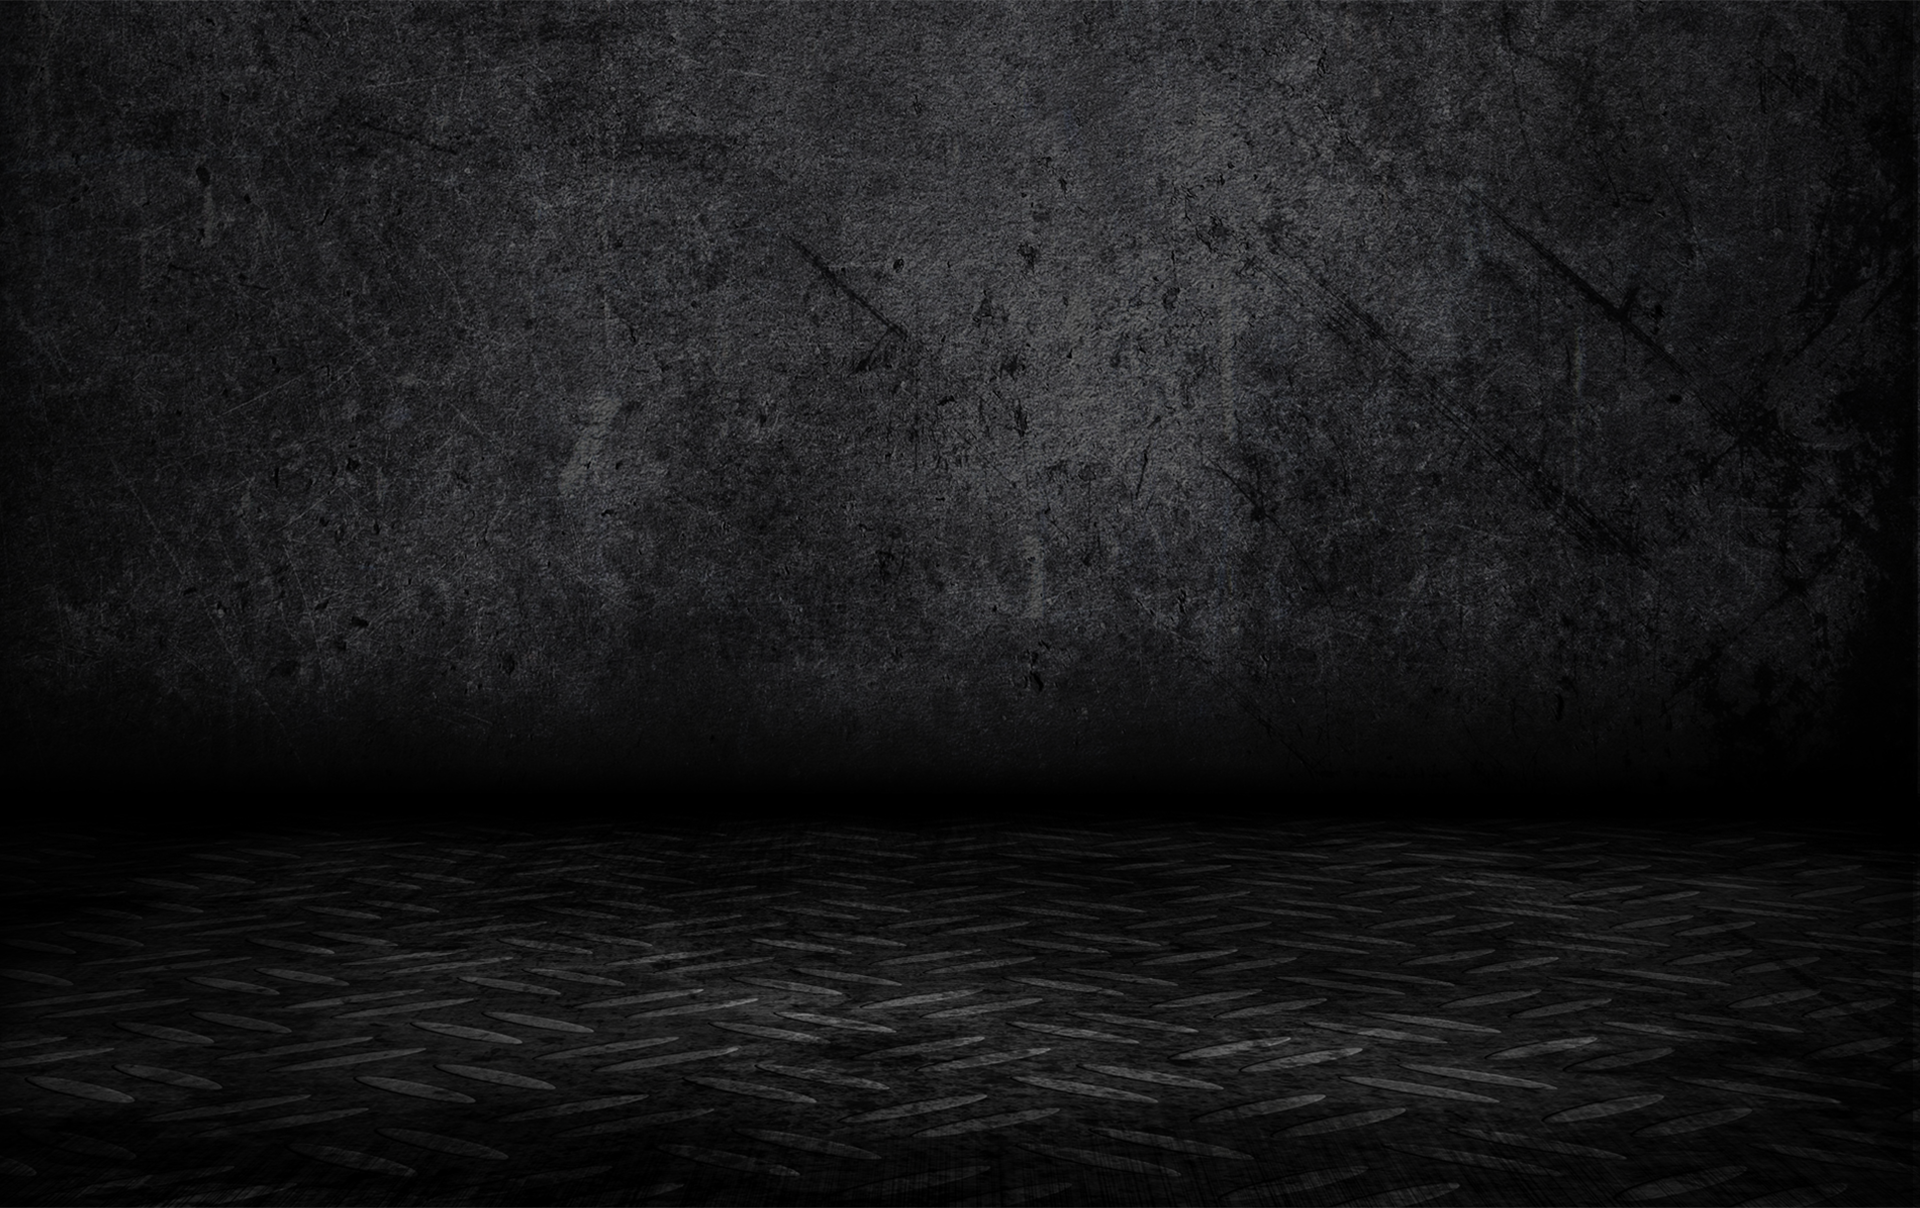
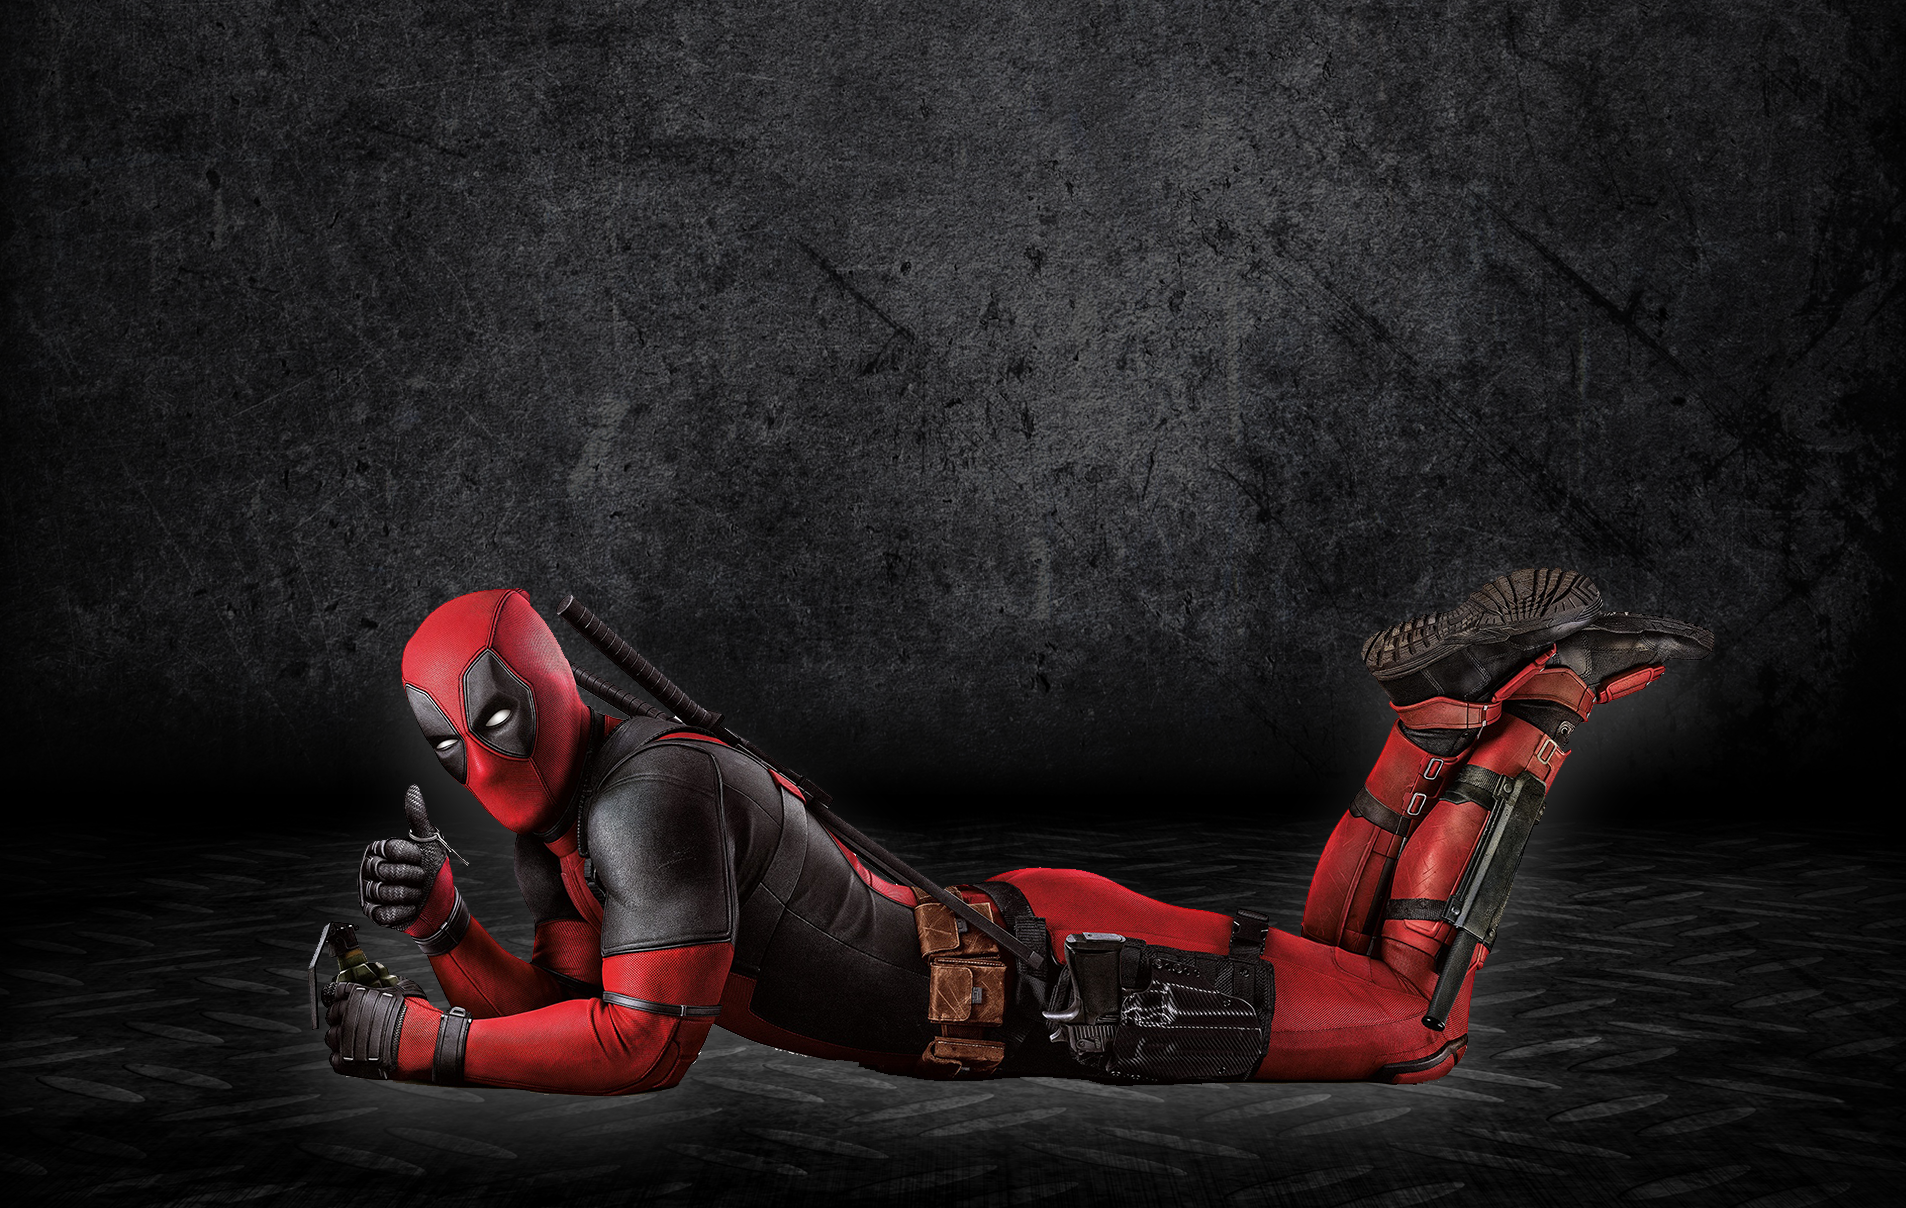
text layer and background

diff --git a/index.html b/index.html
@@ -3,6 +3,7 @@
 <head>
 	<title>Deadpool</title>
 	<link rel="stylesheet" type="text/css" href="styles/index.css">
+	<link href="https://fonts.googleapis.com/css?family=Roboto:300,400,700" rel="stylesheet">
 </head>
 <body>
 	<div class="container">
@@ -12,9 +13,9 @@
 			<img class="scroll" src="media/images/scroll.png">
 		</div>
 		<div class="section2">
-			<img class="deadpool2" src="media/images/deadpool2.png">
 			<div class="section2_content">
 				<img class="about" src="media/images/about.png">
+				<p class="deadpool_p">Wade Wilson is a former Special Forces operative who now works as a mercenary. His world comes crashing down when evil scientist Ajax tortures, disfigures and transforms him into Deadpool. The rogue experiment leaves Deadpool with accelerated healing powers and a twisted sense of humor. With help from mutant allies Colossus and Negasonic Teenage Warhead, Deadpool uses his new skills to hunt down the man who nearly destroyed his life.</p>
 			</div>
 		</div>
 	</div>

diff --git a/styles/index.css b/styles/index.css
@@ -46,5 +46,13 @@
 	}
 
 		.about {
+			margin-top: 80px;
+		}
+
+		.deadpool_p {
+			color: white;
+			font-size: 37px;
+			font-weight: 300;
+			font-family: 'Roboto', sans-serif;
 			
 		}
